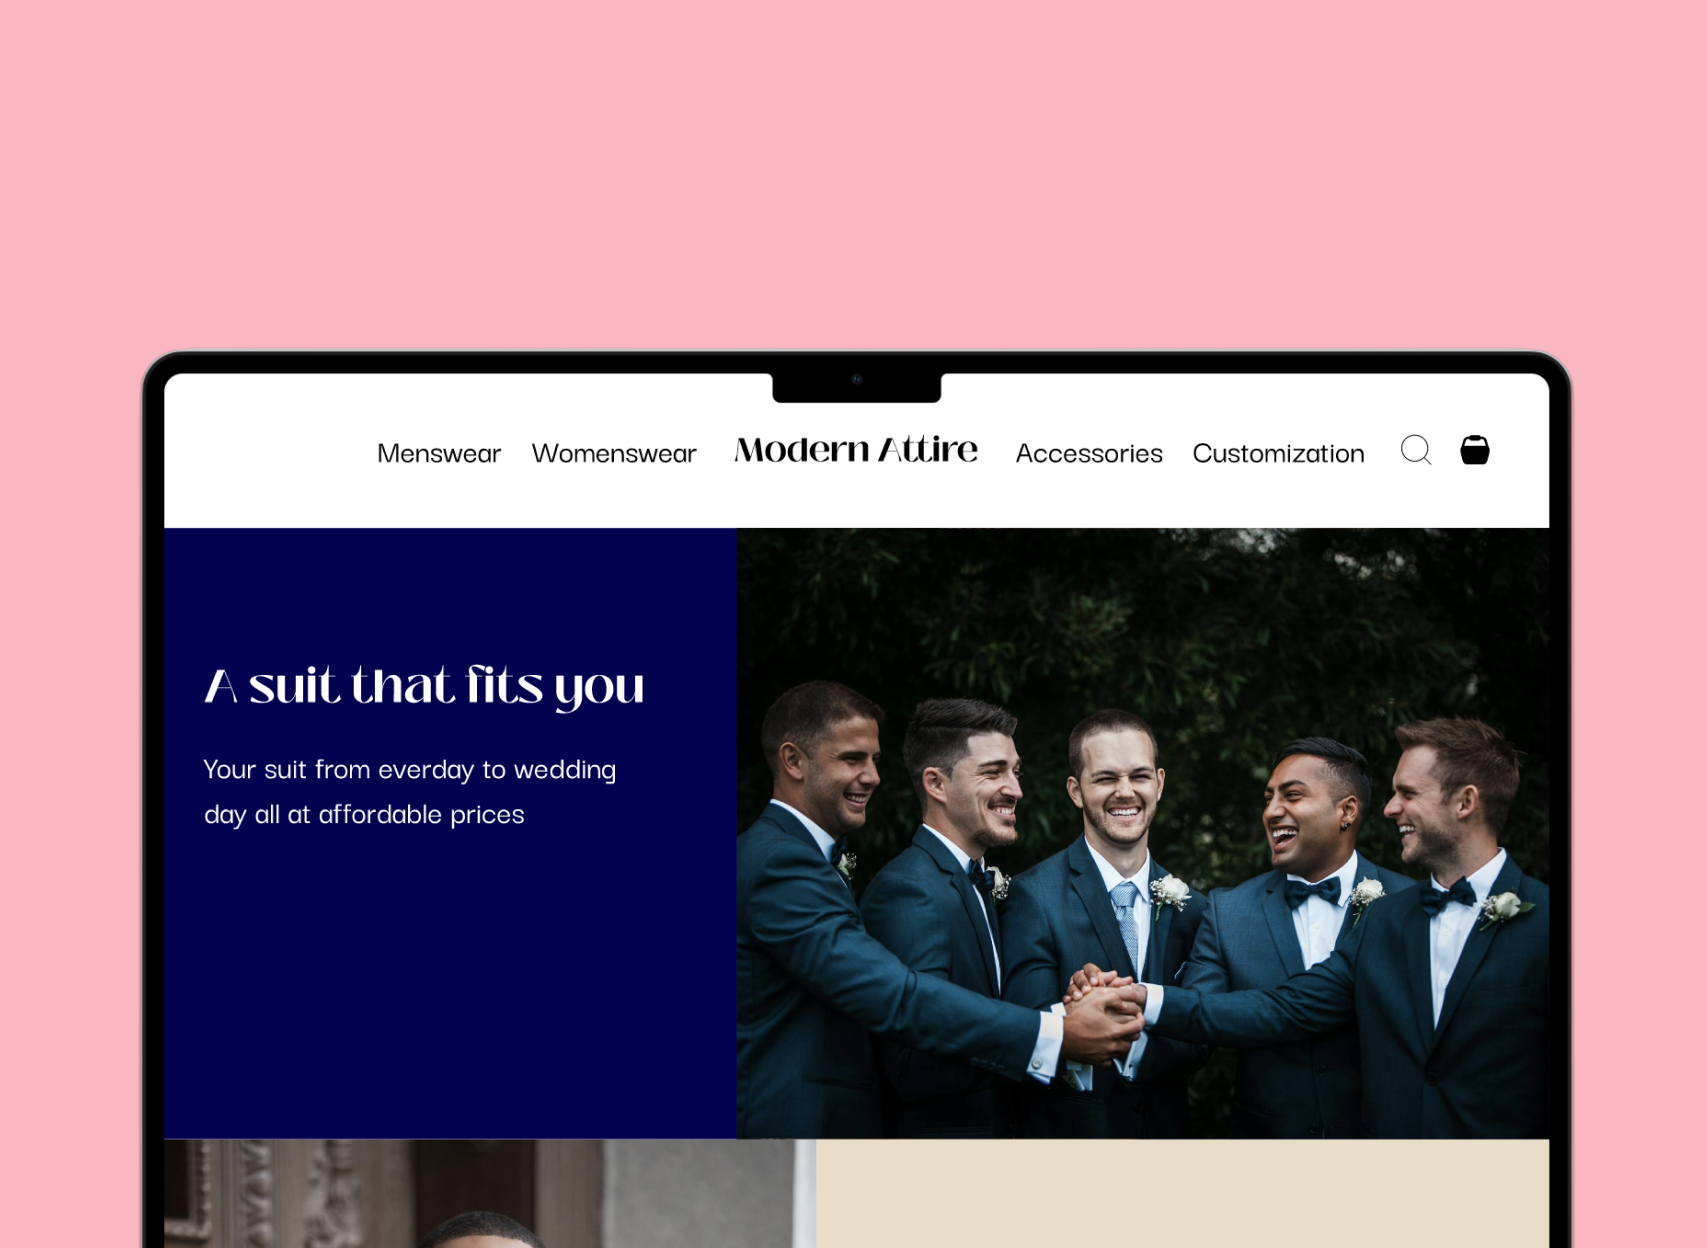
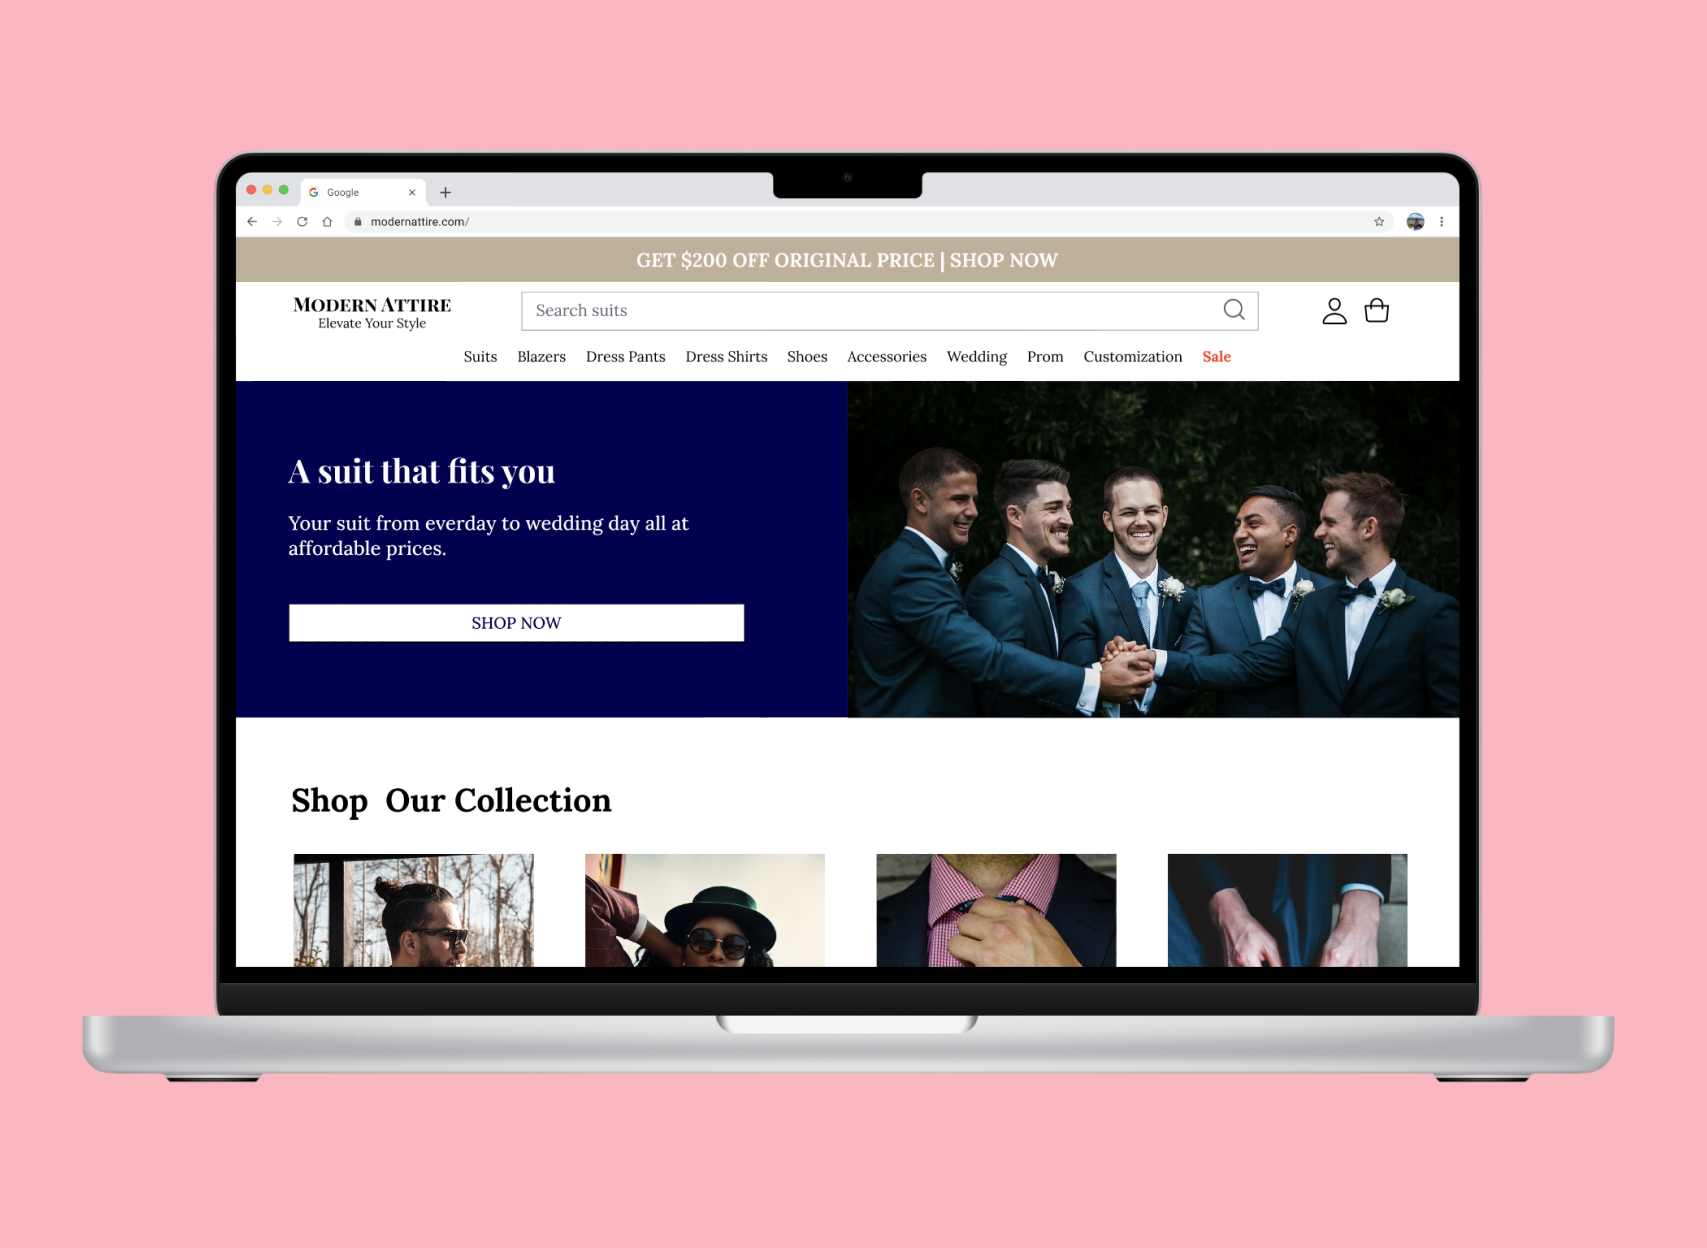
style guide and hi fi images replaced

diff --git a/src/pages/bootcamp/modern-attire.js b/src/pages/bootcamp/modern-attire.js
@@ -53,7 +53,6 @@ import highFidelity6 from "../../../assets/capstone/modern-attire/high-fidelity/
 import highFidelity7 from "../../../assets/capstone/modern-attire/high-fidelity/highFidelity7.png";
 import highFidelity8 from "../../../assets/capstone/modern-attire/high-fidelity/highFidelity8.png";
 import highFidelity9 from "../../../assets/capstone/modern-attire/high-fidelity/highFidelity9.png";
-import highFidelity10 from "../../../assets/capstone/modern-attire/high-fidelity/highFidelity10.png";
 import highFidelity11 from "../../../assets/capstone/modern-attire/high-fidelity/highFidelity11.png";
 import highFidelity12 from "../../../assets/capstone/modern-attire/high-fidelity/highFidelity12.png";
 
@@ -82,7 +81,6 @@ const highFidelityImages = [
   highFidelity7,
   highFidelity8,
   highFidelity9,
-  highFidelity10,
   highFidelity11,
   highFidelity12,
 ];
